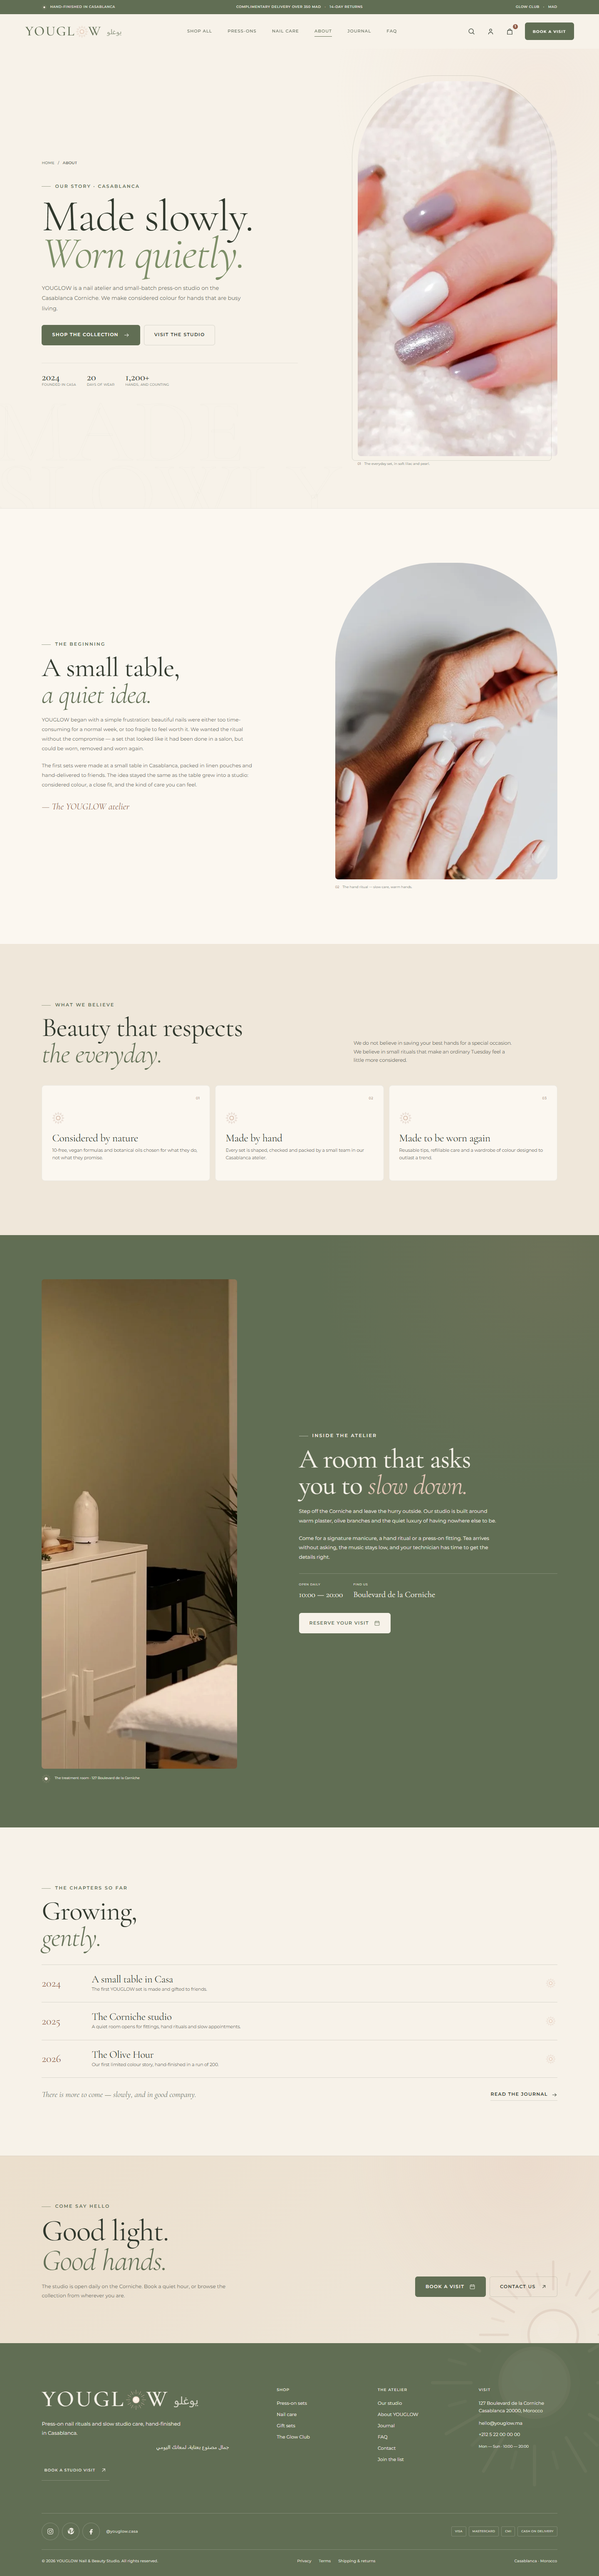
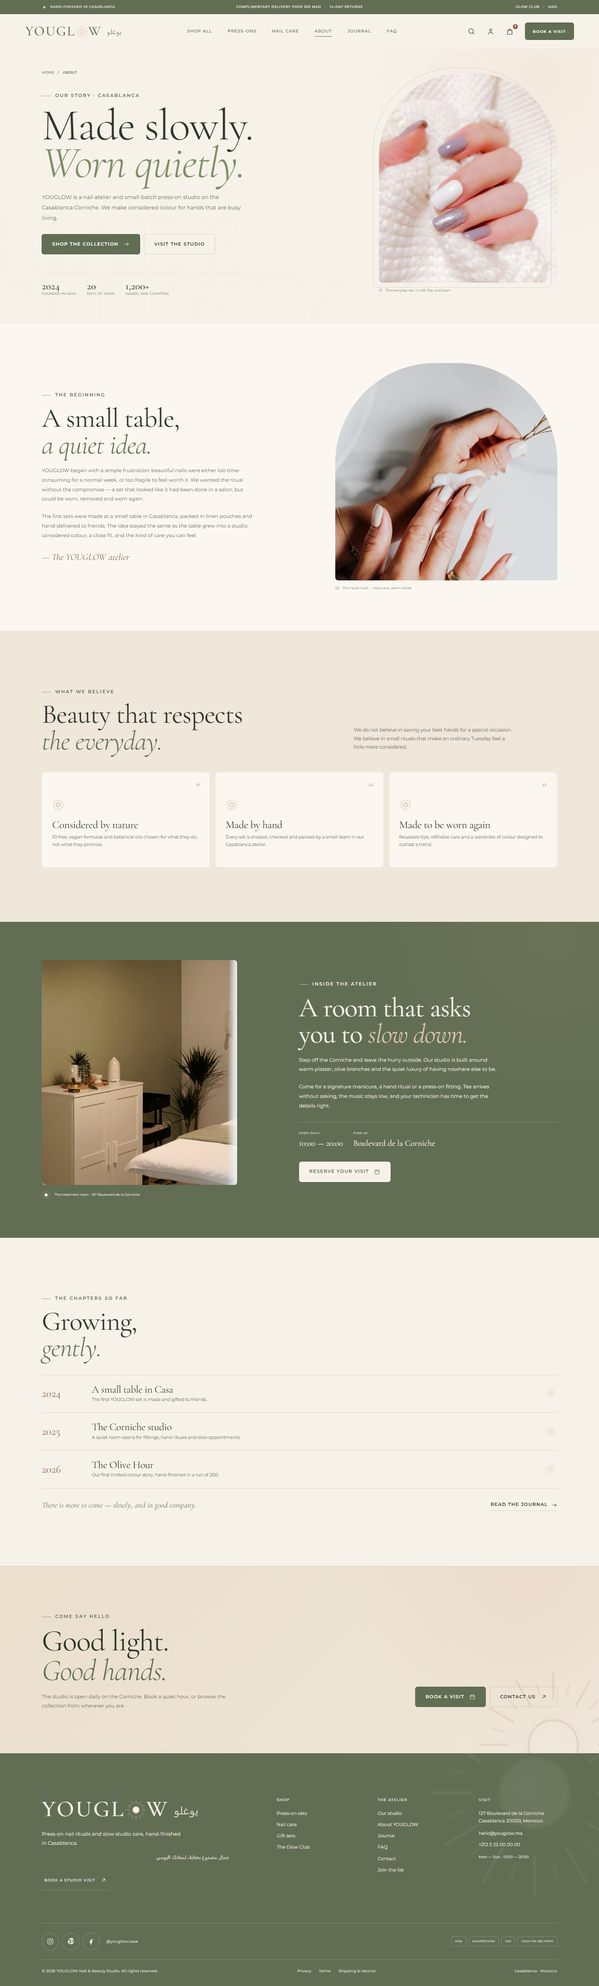
fix: constrain About hero to viewport height

diff --git a/src/pages/AboutPage.vue b/src/pages/AboutPage.vue
@@ -258,7 +258,7 @@ const timeline = [
 .about-hero {
   position: relative;
   overflow: hidden;
-  padding-block: clamp(44px, 5.8vw, 78px) clamp(58px, 7vw, 100px);
+  padding-block: clamp(30px, 3.8vw, 52px) clamp(36px, 4.4vw, 64px);
   background:
     radial-gradient(circle at 90% 10%, rgba(229, 200, 184, 0.22), transparent 30%),
     var(--cream);
@@ -360,6 +360,8 @@ const timeline = [
 
 .about-hero__media img {
   width: 100%;
+  height: auto;
+  max-height: clamp(380px, 56vh, 600px);
   aspect-ratio: 4 / 4.7;
   border-radius: 200px 200px 8px 8px;
   object-fit: cover;
@@ -382,6 +384,7 @@ const timeline = [
 .about-story {
   border-top: 1px solid var(--line-soft);
   background: var(--cream-soft);
+  padding-block: clamp(62px, 7vw, 96px);
 }
 
 .about-story__grid {
@@ -421,6 +424,8 @@ const timeline = [
 
 .about-story__media img {
   width: 100%;
+  height: auto;
+  max-height: clamp(380px, 58vh, 620px);
   aspect-ratio: 4 / 4.8;
   border-radius: 240px 240px 7px 7px;
   object-fit: cover;
@@ -511,7 +516,7 @@ const timeline = [
 }
 
 .about-atelier {
-  padding-block: clamp(64px, 8vw, 106px);
+  padding-block: clamp(60px, 6.5vw, 92px);
   background:
     radial-gradient(circle at 92% 4%, rgba(191, 141, 118, 0.12), transparent 30%),
     var(--sage-deep);
@@ -532,6 +537,8 @@ const timeline = [
 
 .about-atelier figure img {
   width: 100%;
+  height: auto;
+  max-height: clamp(380px, 60vh, 620px);
   aspect-ratio: 4 / 4.7;
   border-radius: 7px;
   object-fit: cover;
@@ -681,8 +688,16 @@ const timeline = [
     justify-self: start;
   }
 
+  .about-hero__media img {
+    max-height: 420px;
+  }
+
   .about-story__media {
     width: min(100%, 470px);
+  }
+
+  .about-story__media img {
+    max-height: 440px;
   }
 
   .about-values__head {
@@ -695,6 +710,10 @@ const timeline = [
 
   .about-atelier figure {
     width: min(100%, 460px);
+  }
+
+  .about-atelier figure img {
+    max-height: 440px;
   }
 }
 

diff --git a/design-system/youglow/MASTER.md b/design-system/youglow/MASTER.md
@@ -175,6 +175,7 @@ All non-home pages reuse the same shell and rhythm:
 
 - **PageHero**: small breadcrumb, 10px eyebrow, oversized serif H1 with a light-green italic accent, 540px lede, optional metadata row or search/filter controls, and an optional full-bleed nail photograph on the right (faded into cream, hidden below 980px). Background is cream with a faint rose sun at the upper right.
 - **PageCta**: shared **light sand-to-cream closing band** — not a dark band — with a serif headline, 12px supporting copy, a rose sun watermark and dark-green/outline actions. The light CTA sits directly above the dark footer and must stay visually distinct from it.
+- **About hero**: breadcrumb, eyebrow, oversized H1, copy and stats on the left; an arched nail image on the right. The module must fit inside a 1366×768 desktop viewport: cap the image with `max-height: clamp(380px, 56vh, 600px)` and keep hero padding at `clamp(30px, 3.8vw, 52px)` / `clamp(36px, 4.4vw, 64px)`. Story and atelier images use the same height-cap treatment so no image runs past a full screen.
 - **Navigation state**: active page links are calculated from path *and* shop category, never from RouterLink’s automatic path-only active classes. Exactly one primary nav item may be marked active.
 - **Shop filters**: category changes update the query string without resetting scroll position. Moving between pages still scrolls to the top (or to the requested hash).
 - **Reading pages**: 710px max text column, 11–12px/1.85 body copy, numbered H2s, sticky table of contents at 230px. On mobile the table of contents collapses and the text becomes single-column.
